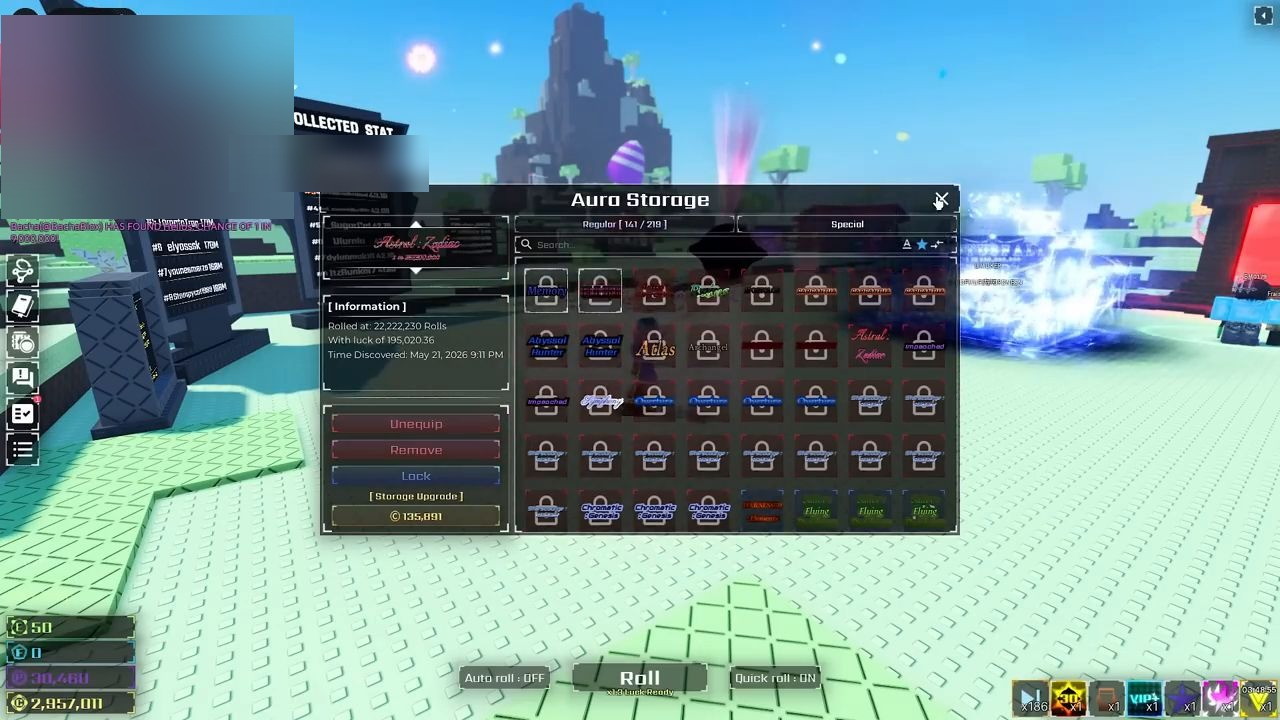
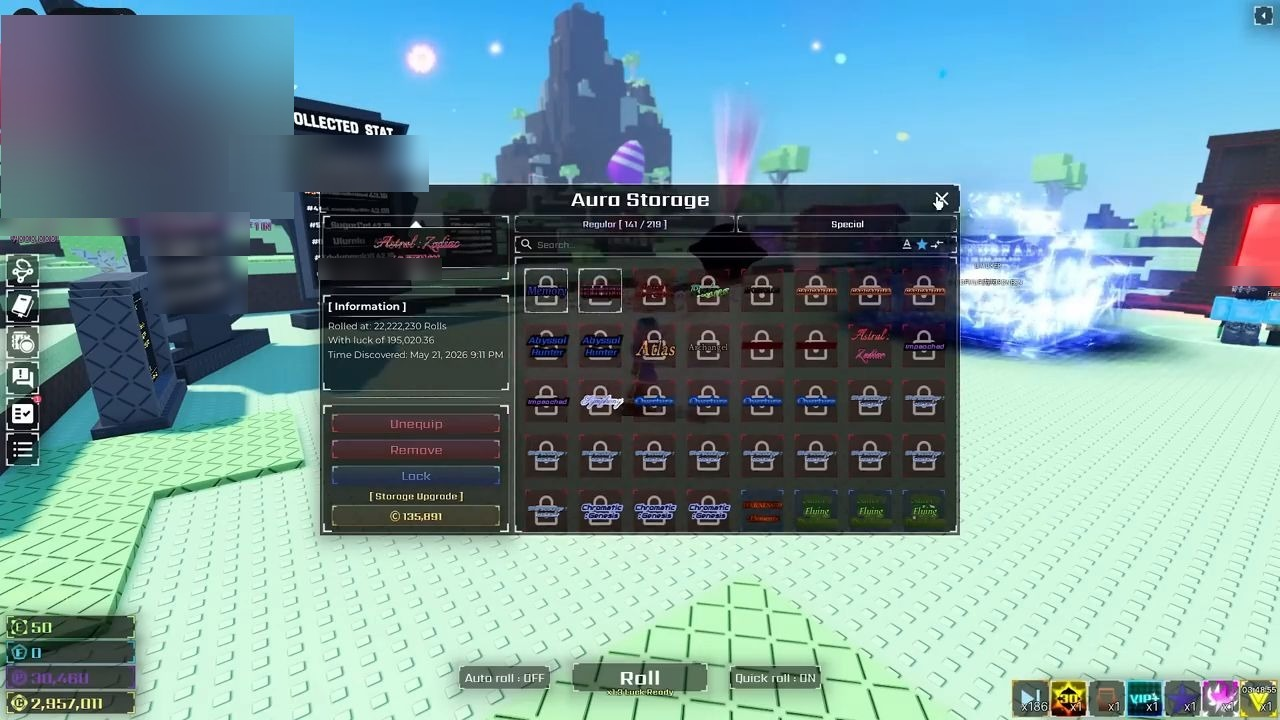
refs update 2026-11-04T10:12:32Z

Changed region(s): [[0.0, 0.3056, 0.2188, 0.4278], [0.25, 0.3361, 0.3438, 0.3972], [0.9375, 0.3667, 1.0, 0.3972]]

diff --git a/README.md b/README.md
@@ -115,4 +115,4 @@ Batch 4 notes: rejected after viewing (hand-cam, meme captions, emulator overlay
 
 Batch 4 privacy pass (release review before publishing): player names and usernames shown in the frames were blurred in place (JPEG re-saved, quality 92, everything else unchanged): Dead Rails (Party Id pill on all 10 frames, three nameplates), Blade Ball (leaderboard on 3 frames, gacha winners list, chat line, distant nameplates), Arsenal (chat line, kill feeds, nameplates), Brookhaven (car licence plates), Natural Disaster Survival (nameplate, number tag), Bee Swarm (honeymaker board), A Dusty Trip (uploader watermark, nameplate), Adopt Me mobile (tag), Dandy's World mobile (two chat bubbles), Tower Defense X mobile (tower owner names under every tower title, player nameplates). The "Lakeside Hill by K..." title credit in the Lakeside Hill frames is the game's own on-screen credit (cut off by the video frame) and was kept; the game and its creator are credited in NOTICE.md.
 
-Batch 1-3 privacy pass (second review before publishing, by eye at stored size, no OCR): all 308 older frames were reviewed. 134 frames across 30 folders had regions blurred in place (209 regions in total; JPEG re-saved at quality 92, rest of the frame unchanged): player nameplates and display names, usernames in kill feeds, scoreboards, team lists and leaderboards, chat lines and chat bubbles, streamer watermarks and user-id tags, a player profile card, a typed character name and the player location pill in one game. 0 frames dropped; 174 frames needed no change. The game's own titles, NPC and boss names, item and fish names and generic UI were left sharp. A per-file private list is kept outside this folder. Release check of that pass: 10 older frames were opened at full size; in 4 of them (Frontlines, Forsaken, Tower Defense Simulator, Sol's RNG) a few small, faint nameplates were still legible and 12 more regions were blurred in those games' frames. Very small or faint text in other frames cannot be ruled out; the owner of any name shown can ask for a frame to be blurred or removed (see NOTICE.md).
+Batch 1-3 privacy pass (second review before publishing, by eye at stored size, no OCR): all 308 older frames were reviewed. 134 frames across 30 folders had regions blurred in place (214 regions in total; JPEG re-saved at quality 92, rest of the frame unchanged): player nameplates and display names, usernames in kill feeds, scoreboards, team lists and leaderboards, chat lines and chat bubbles, streamer watermarks and user-id tags, a player profile card, a typed character name and the player location pill in one game. 0 frames dropped; 174 frames needed no change. The game's own titles, NPC and boss names, item and fish names and generic UI were left sharp. A per-file private list is kept outside this folder. Release check of that pass: 10 older frames were opened at full size; in 4 of them (Frontlines, Forsaken, Tower Defense Simulator, Sol's RNG) a few small, faint nameplates were still legible and 17 more regions were blurred in those games' frames (also Sol's RNG leaderboard boards and chat); a scan of the heavily overlaid folders (Rivals, Tower Defense X, Doors) found nothing more. Very small or faint text in other frames cannot be ruled out; the owner of any name shown can ask for a frame to be blurred or removed (see NOTICE.md).
